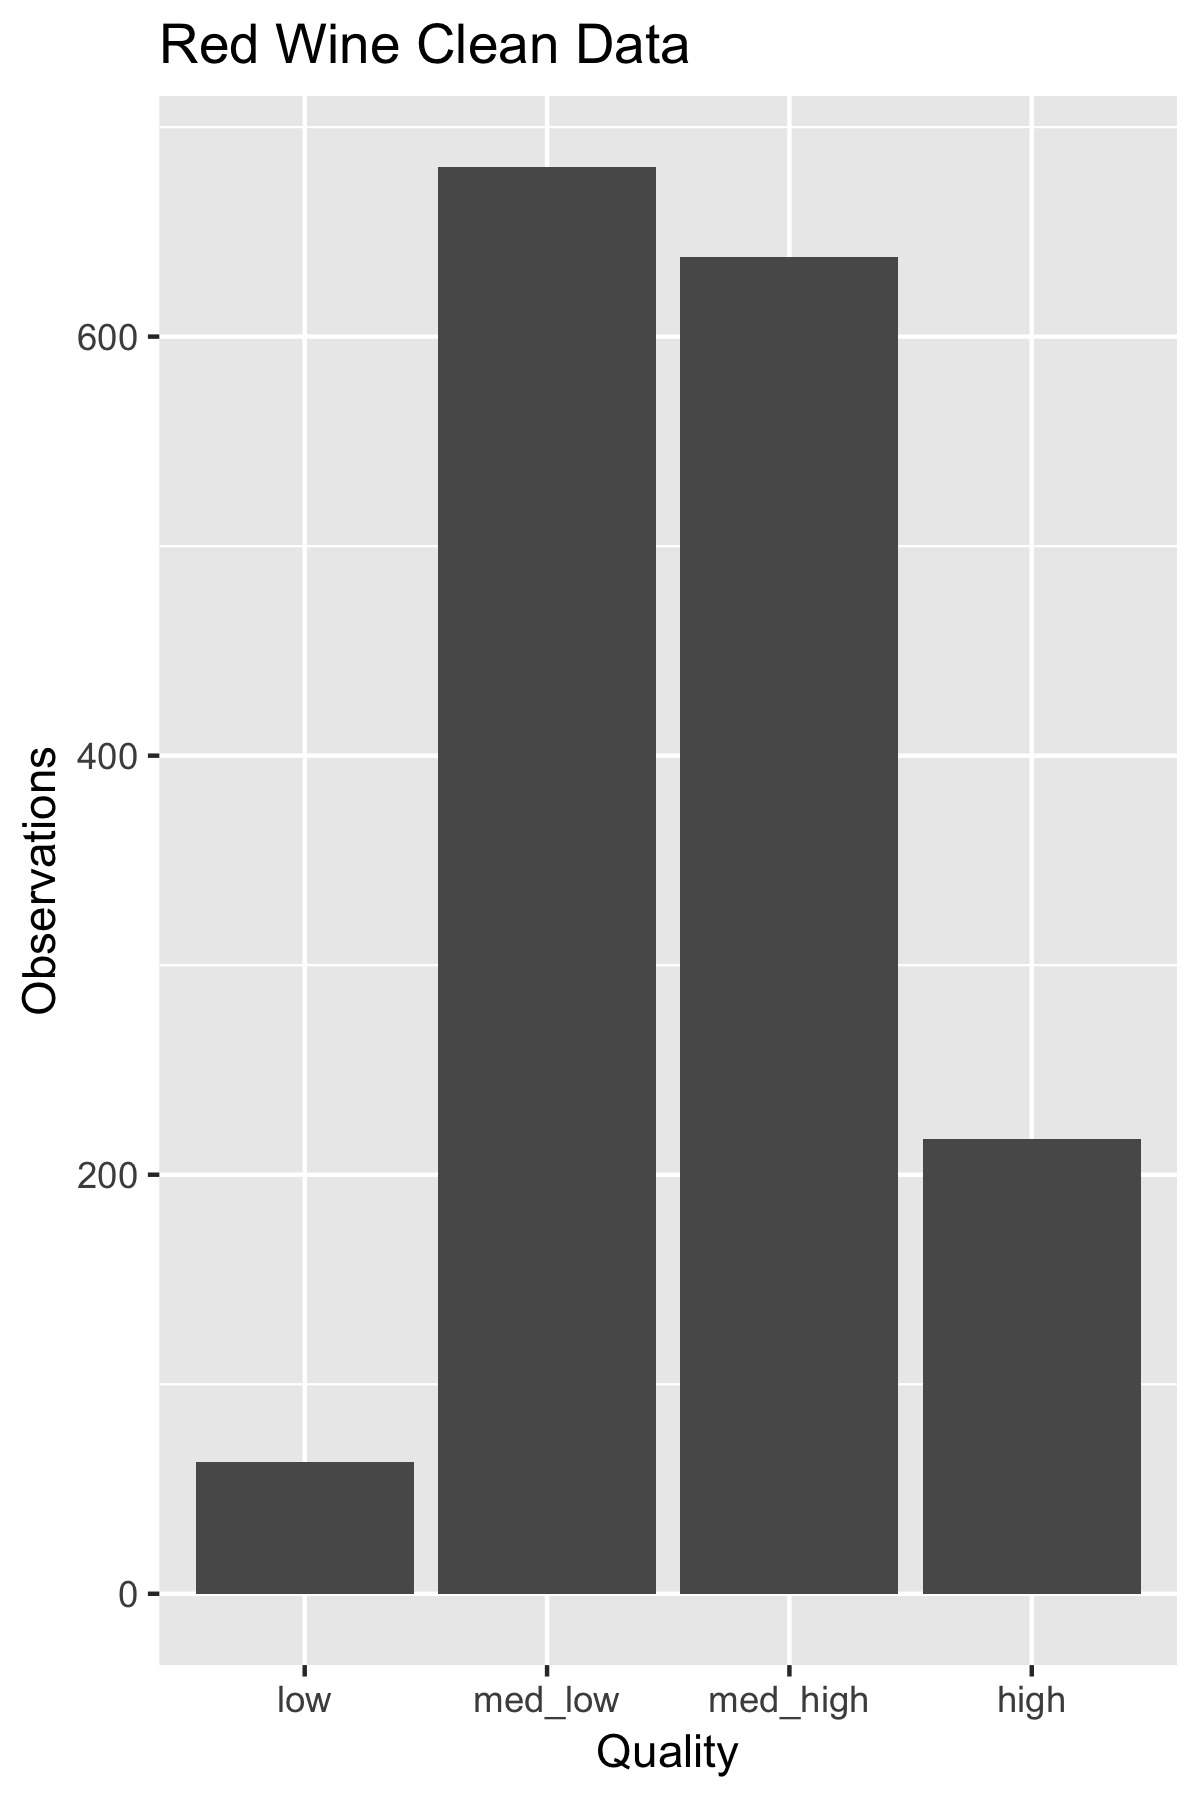
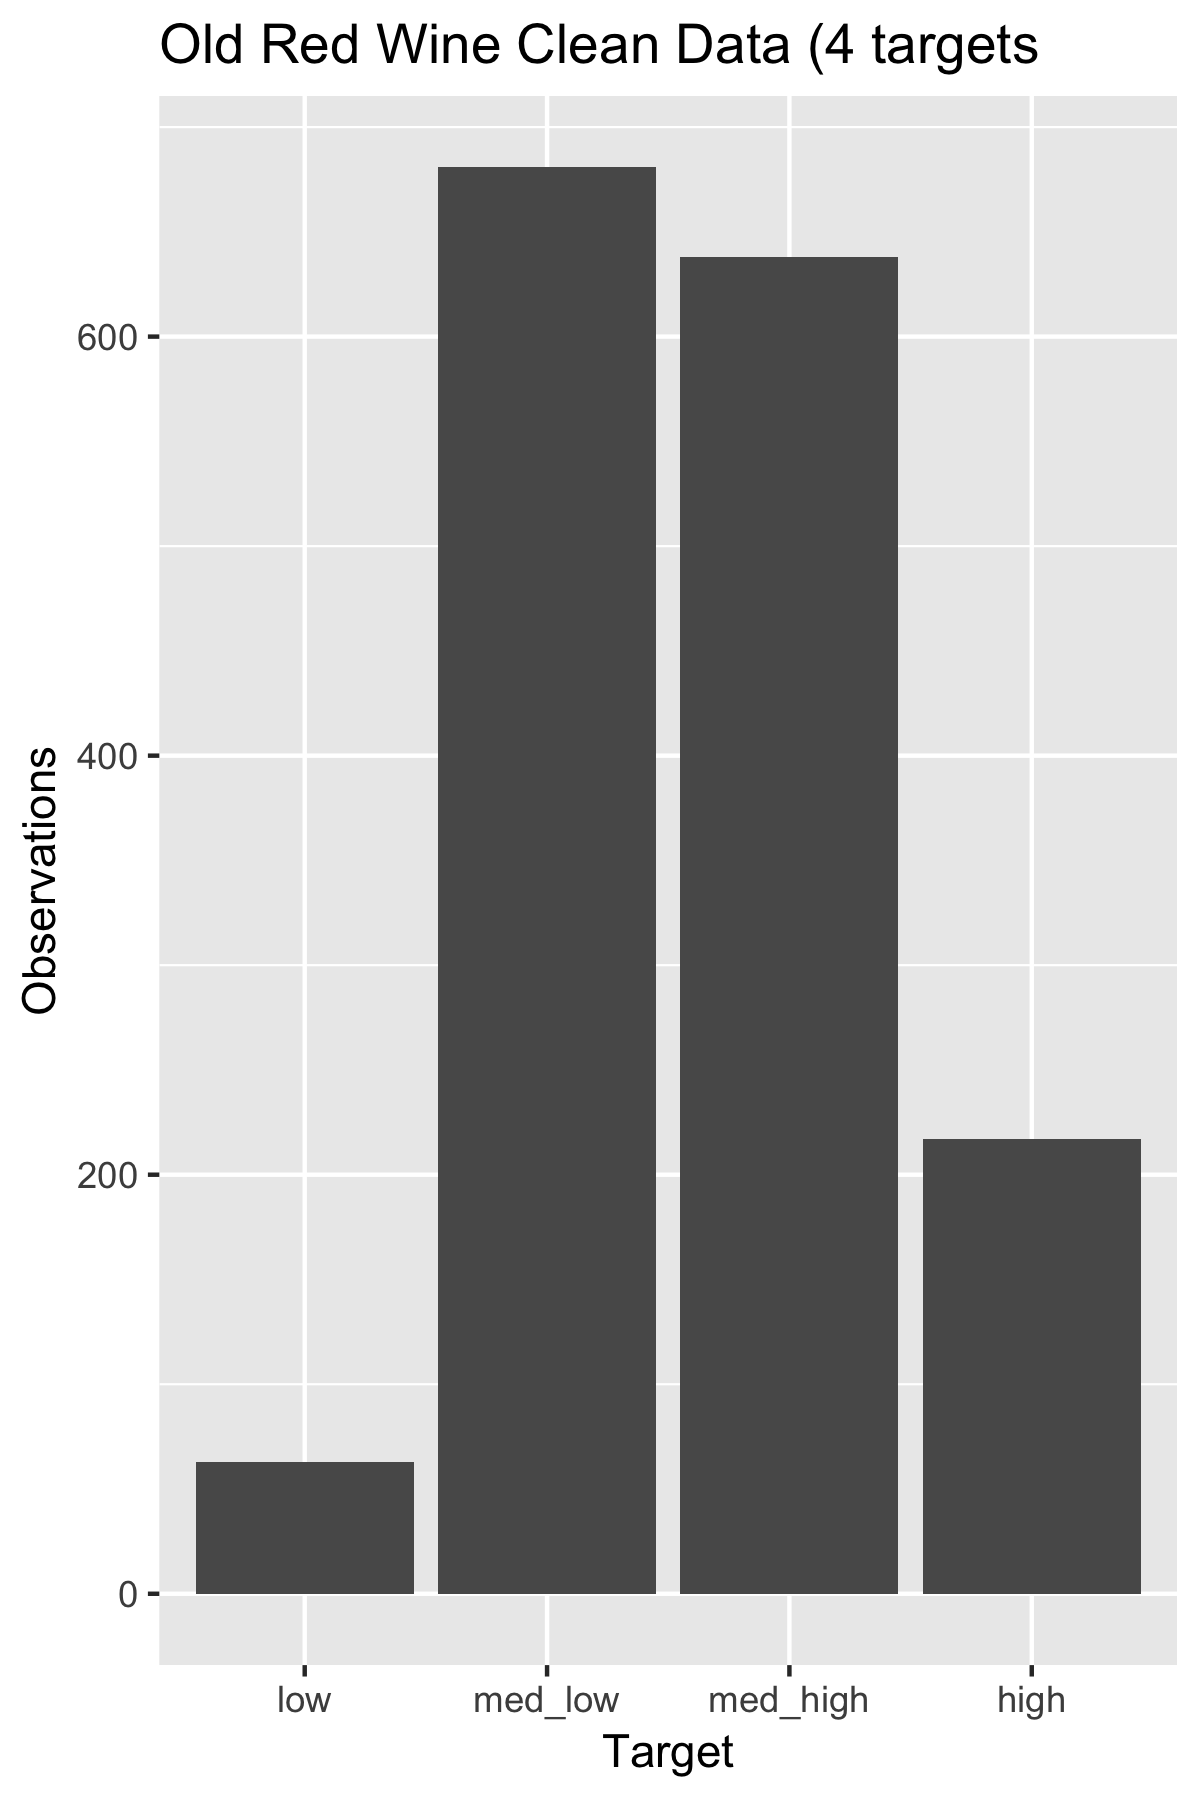
fix graph labels, add feature importance

Changed region(s): [[0.1233, 0.0, 0.8633, 0.0622], [0.4933, 0.9644, 0.6167, 0.9956]]

diff --git a/src/draw_tree.py b/src/draw_tree.py
@@ -18,7 +18,8 @@ import argparse
 parser = argparse.ArgumentParser()
 parser.add_argument('input_file')
 parser.add_argument('output_file')  # a png file, with no suffix
-parser.add_argument('output_result') # a csv file
+parser.add_argument('output_result') # a csv file for tree cross val score
+parser.add_argument('output_importance') # a csv file for feature importance
 parser.add_argument('target_num') # 3 or 4
 parser.add_argument('balanced') # true or false
 args = parser.parse_args()
@@ -67,6 +68,13 @@ def get_tree(wine_data):
     scores = pd.DataFrame({'data_name': [args.input_file]})
     scores['balanced'] = [args.balanced]
     scores['cross_var_score'] = [np.mean(cross_val_score(wine_tree, X, y, cv = 10))]
+
+    # write feature scores to an individual csv
+    feature_imp = pd.DataFrame({'feature': features})
+    feature_imp['importance'] = wine_tree.feature_importances_.tolist()
+    feature_imp = feature_imp.sort_values(by = ['importance'], ascending = False)
+    feature_imp.to_csv(args.output_importance)
+
 
     # write the scores to one result csv
     with open(args.output_result, 'a') as f:
